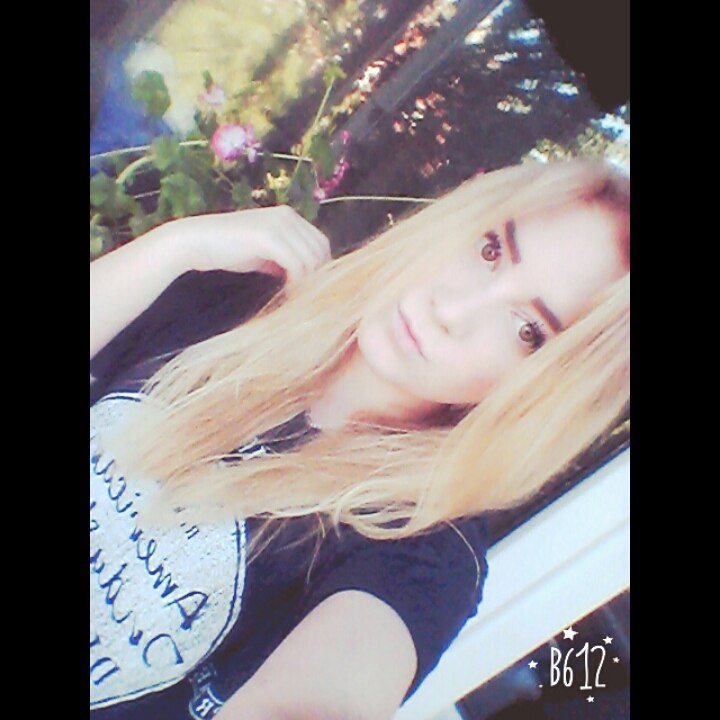
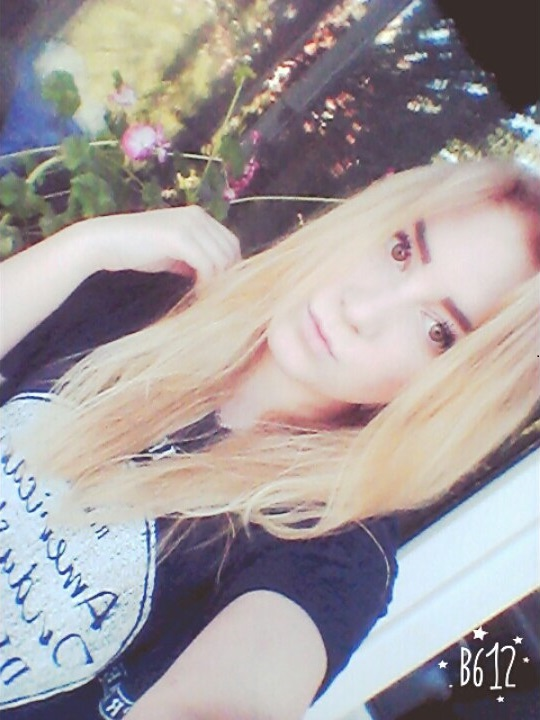
7 slides

diff --git a/index.html b/index.html
@@ -16,9 +16,9 @@
 <body>
     <audio src="music.mp3" autoplay="autoplay" loop="loop"></audio>
     <div id="container">
+
         <div class="w-block">
             <div class="elem text">
-                <!--<center></center>-->
                 <span class="before"></span>
                 <span class="inner">
                     Привет) Меня зовут Настя.
@@ -30,9 +30,95 @@
                 <img src="images/1.jpg">
             </div>
         </div>
-        <div class="w-block"></div>
-        <div class="w-block"></div>
-        <div class="w-block"></div>
+
+        <div class="w-block">
+            <div class="elem image">
+                <img src="images/2.jpg">
+            </div>
+            <div class="elem text">
+                <span class="before"></span>
+                <span class="inner">
+                    Мне 18 лет и я учусь в шараге.
+                    <br>
+                    Я очень честный человек и никогда не предаю своих друзей)
+                </span>
+            </div>
+        </div>
+
+        <div class="w-block">
+            <div class="elem text">
+                <span class="before"></span>
+                <span class="inner">
+                    Я люблю проводить время и играть со своими друзьями.
+                    <br>
+                    А еще ходить с ними в кино)
+                </span>
+            </div>
+            <div class="elem image">
+                <img src="images/3.jpg">
+            </div>
+        </div>
+
+        <div class="w-block">
+            <div class="elem image">
+                <img src="images/4.jpg">
+            </div>
+            <div class="elem text">
+                <span class="before"></span>
+                <span class="inner">
+                    Не обижайте меня, пожалуйста.
+                    <br>
+                    А то я буду плакать, вы же не хотите, чтобы я так выглядела?(
+                    <br>
+                    А еще потом друзья отомстят за меня!
+                </span>
+            </div>
+        </div>
+
+        <div class="w-block">
+            <div class="elem text">
+                <span class="before"></span>
+                <span class="inner">
+                    Мне очень нравятся плющевые медведи)
+                    <br>
+                    У меня их 5 штук и у каждого есть свое имя)
+                    <br>
+                    А самый любимый - Егор)
+                </span>
+            </div>
+            <div class="elem image">
+                <img src="images/5.jpg">
+            </div>
+        </div>
+
+        <div class="w-block">
+            <div class="elem image">
+                <img src="images/6.jpg">
+                <!--<img src="images/6_1.jpg">-->
+            </div>
+            <div class="elem text">
+                <span class="before"></span>
+                <span class="inner">
+                    Моя любимая игра - Лига Легенд)
+                    <br>
+                    Я играю на роли поддержки. Моя друзья любят меня за то, что я спасаю их жизни, вовремя хильнув)
+                </span>
+            </div>
+        </div>
+
+        <div class="w-block">
+            <div class="elem text">
+                <span class="before"></span>
+                <span class="inner">
+                    А ещё просто обожаю делать выпечку
+                    <br>
+                    Вам определенно стоит попробовать мои шоколадные печеньки)
+                </span>
+            </div>
+            <div class="elem image">
+                <img src="images/7.jpg">
+            </div>
+        </div>
     </div>
 </body>
 </html>

diff --git a/main.css b/main.css
@@ -42,6 +42,7 @@
     flex-direction: column;
     justify-content: center;
     align-items: center;
+    overflow: hidden;
 }
 
 .image img {
